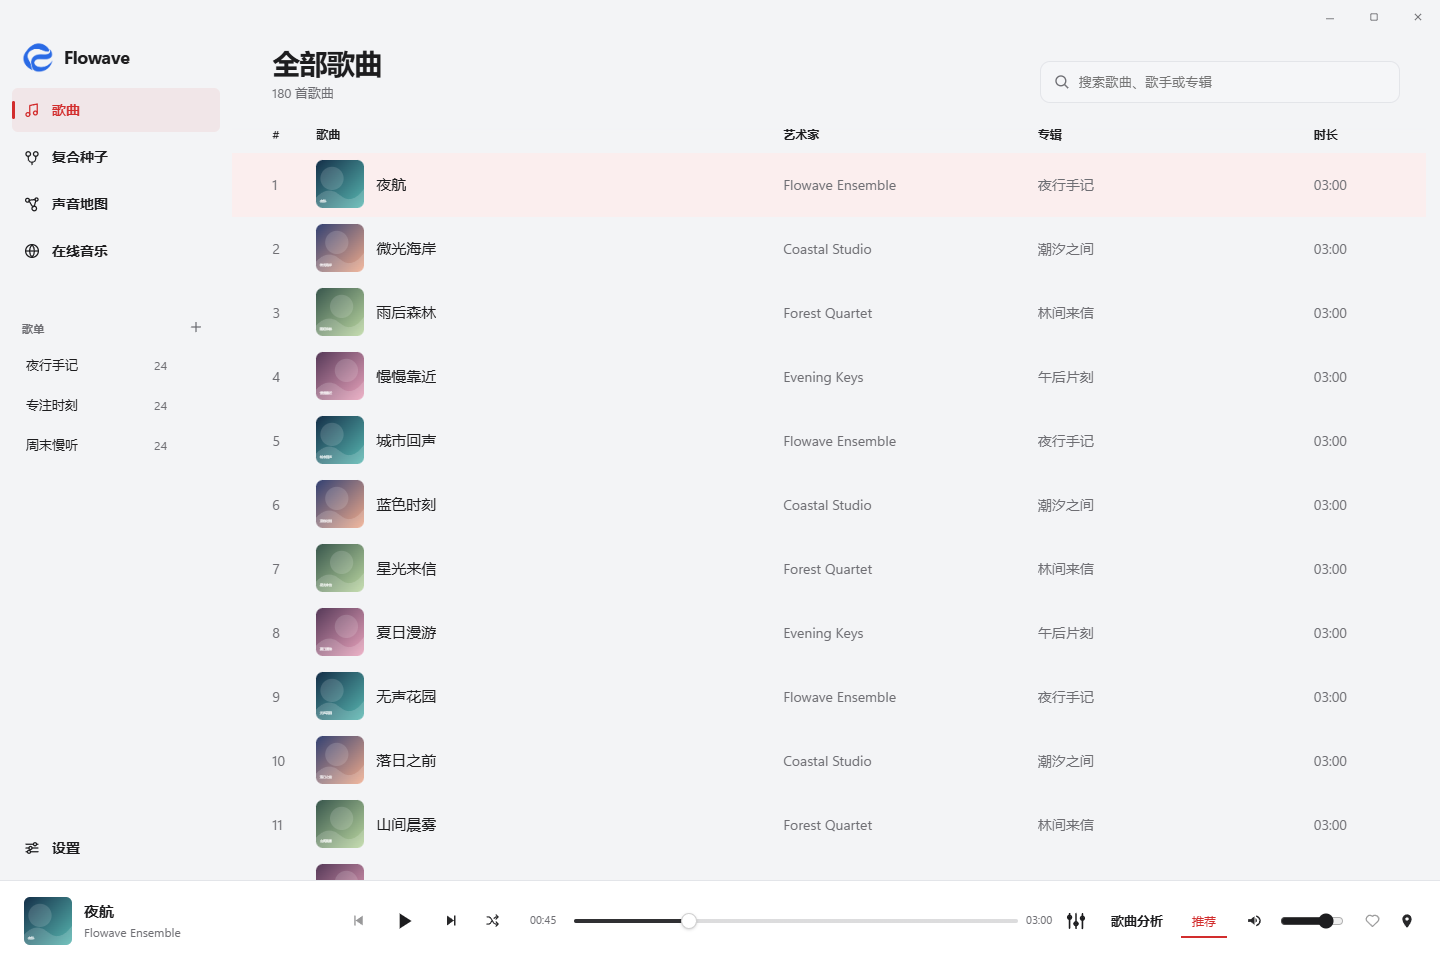
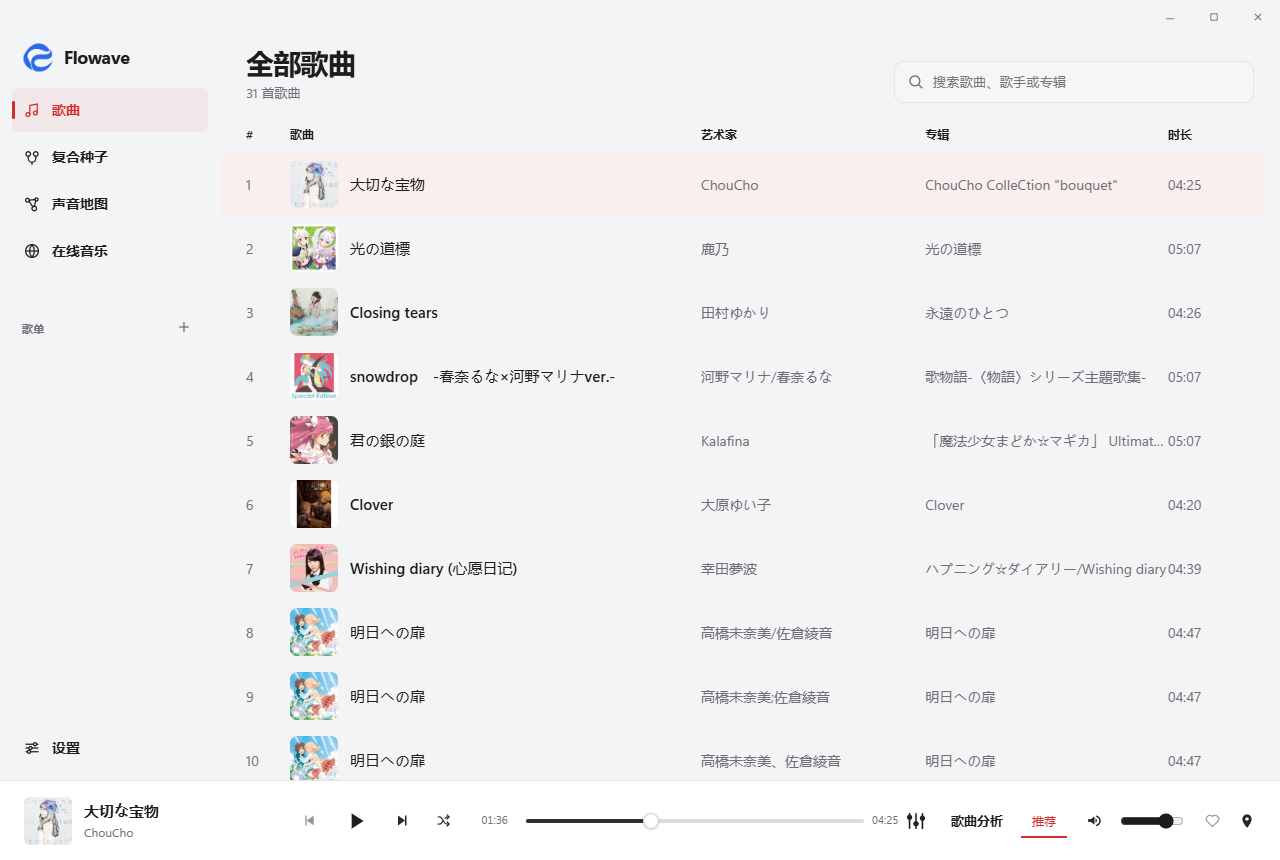
Update README and real-song gallery

diff --git a/README.md b/README.md
@@ -1,97 +1,88 @@
-<p align="center">
-  <img src="electron-lxplayer/renderer/assets/app-icon.png" width="112" alt="Flowave">
-</p>
+<p align="center"><img width="112" src="electron-lxplayer/renderer/assets/app-icon.png" alt="Flowave"></p>
 
-# Flowave
+<h1 align="center">Flowave</h1>
 
-Flowave 是一个 Windows 本地音乐播放器。它可以管理和播放电脑里的音乐，也可以从你选的一首歌出发，在自己的曲库里接着找歌。
+<p align="center">一个注重连续听感的 Windows 音乐播放器</p>
 
-收藏的歌多了，有时反而不知道该听什么。随机播放容易打断刚刚听进去的感觉，自己挑歌又需要不断回到列表。Flowave 想让这个过程省心一些：合适就继续，走偏了就找回，听够了就换个方向。
+## 说明
 
-如果你习惯保留自己的音乐文件，希望多听到一些已经收藏、却很少点开的歌，Flowave 就是围绕这样的日常使用来做的。曲库、歌词和播放是基础，推荐、歌曲分析和伴奏练习可以按需要开启。
+Flowave 用于沉浸式听音乐，注重歌曲之间风格和听感的连续性。软件根据当前播放、听歌反馈和近期记录判断偏好，推荐下一曲。
 
-[使用指南](docs/使用指南.md) · [源码运行与构建](docs/源码运行与构建.md) · [Releases](https://github.com/nadeshikochan/Flowave/releases)
+可以顺着当前方向继续听，也可以使用“找回感觉”纠偏，或用“换个感觉”切换方向。支持本地曲库、歌单、在线搜索、逐字歌词、桌面歌词、均衡器和交叉淡化。
 
-目前提供源码预览，安装包尚未发布。下方图片使用当前界面和演示数据，曲目、封面、歌词、推荐关系与谱例均为虚构示例。
+目前支持 Windows 10/11 x64。
 
-## 从喜欢的一首接着听
+使用方法请查看[使用指南](docs/使用指南.md)，源码运行请查看[源码运行与构建](docs/源码运行与构建.md)。目前提供源码，安装包尚未发布，后续下载请查看 [GitHub Releases](https://github.com/nadeshikochan/Flowave/releases)。
 
-你可以先选一首现在想听的歌，再交给 Flowave 接着找。推荐会比较歌曲本身的声音特征，也会参考已有的歌曲分析和近期播放情况，无需先给整份曲库手工分类。
+### 插件
 
-听的过程中，可以延续当前方向；遇到不合适的歌，用“找回感觉”往刚才的方向靠拢；想换一换，就用“换个感觉”开始下一段。近期播放和重复控制也会参与选择，减少总在几首歌之间来回的情况。
+推荐功能、听歌记录、声音地图、歌曲分轨、和声检测、复合种子等功能计划通过插件安装。
 
-这里关注的是一段连续的聆听：下一首能不能接得上，同时还能不能慢慢听到别的歌。推荐结果会受曲库和个人听感影响，需要相应模型、运行组件及已经完成的曲库索引。
+当前已支持功能启停，独立插件安装尚未完成。推荐与音乐分析需要另外准备模型和运行环境。
 
-## 用几首歌说明想听什么
+- 歌曲推荐：根据声音特征和听歌反馈选择下一曲，兼顾当前方向与近期重复情况。
+- 听歌记录：查看听歌时长、播放次数和歌曲排行。
+- 声音地图：浏览相近歌曲，查看歌曲关系和实际听歌轨迹。
+- 歌曲分轨：调整人声和乐器声部，配合循环、变速和节拍器练习。
+- 和声检测：提供和弦、调性等分析信息，识别结果需要核对。
+- 复合种子：用多首歌曲组合喜欢和排除的方向，生成分组推荐。
 
-有时一首歌还说不清想听的感觉。复合种子可以把几首喜欢的歌放在一起，也可以加入想避开的方向，保存成一个组合。
+### 在线音源
 
-![复合种子：喜欢的方向、排除的方向和分组推荐](docs/images/seeds.png)
+本仓库不包含第三方在线音源脚本，使用在线播放时需自行导入可信来源。仓库中的搜索接口和脚本加载器属于播放器代码。
 
-比如想保留几首歌共有的氛围，又不想接到另一类声音，就可以同时给出这些例子，再浏览推荐结果。以后想听类似的音乐，可以回到这个组合继续用。
+### 本地数据
 
-结果按可衔接的组排列，可以选择从哪一组开始。组与组之间不自动接歌，避免把不同方向硬连成一条播放列表。
+软件无需注册账户，配置、历史和分析结果保存在本机。在线搜索、资料查询和组件下载会访问相应服务。详情请查看[隐私与数据](docs/隐私与数据.md)。
 
-## 在地图里找歌
+## 用户界面
 
-当你只记得一首歌的感觉，却说不出它属于什么风格时，也可以从声音地图开始找。
+### 歌曲
 
-![声音地图：浏览曲库里的歌曲群落](docs/images/map.png)
+多目录曲库、搜索、歌单和播放队列。以下以 ChouCho《大切な宝物》为例。
 
-地图把模型中相近的歌曲放到可以浏览的空间里。先看全库，再进入某个群落，或展开一首歌附近的音乐；可以搜索、缩放、平移和旋转，也可以按需查看歌曲关系与相似度矩阵。
+<p><img width="100%" src="docs/images/library.png" alt="歌曲页面：ChouCho 大切な宝物"></p>
 
-听歌轨迹则保留实际经过的歌曲和换向经历，方便回看刚才从哪里听到了哪里。地图的位置是模型关系的投影，适合帮助探索，不能直接当作严格的风格分类。
+### 歌词
 
-## 管理自己的音乐收藏
+支持逐字歌词、多语言歌词和桌面歌词，可以调整字号、配色与背景。
 
-![本地曲库与播放界面](docs/images/library.png)
+<p><img width="100%" src="docs/images/lyrics.png" alt="歌词页面：ChouCho 大切な宝物"></p>
 
-Flowave 支持多个音乐目录，可以按歌曲、歌手或专辑搜索，也可以浏览文件夹、建立歌单和安排播放队列。普通播放按当前列表顺序进行，想随机听或循环播放时也可以切换。
+### 声音地图
 
-歌曲资料、封面和歌词可以按需查找补全，音频标签也可以编辑。音乐分散在不同文件夹时，不必为了使用播放器先搬到同一个位置；从曲库移除目录也不会删除音频文件。
+查看这首歌附近的音乐，也可以切换全库视图、歌曲比较和听歌轨迹。
 
-## 看歌词，安心听歌
+<p><img width="100%" src="docs/images/map.png" alt="大切な宝物附近的歌曲关系"></p>
 
-![沉浸歌词界面](docs/images/lyrics.png)
+这三张图使用当前界面、本地已有歌曲资料及保存的音频向量关系渲染，仅用于界面展示，未附带音乐文件。
 
-歌词页把封面、背景和文字放在同一个画面里。当前歌词突出显示，前后歌词逐渐模糊；有逐字时间信息时，可以跟随音乐高亮，也支持多语言歌词。
+### 在线搜索
 
-想读前后的内容时可以手动浏览，随后恢复跟随。字号、配色和背景效果都可以调整。平时在别的窗口工作，也可以打开桌面歌词，不必一直把播放器放在前面。
+可以搜索歌曲和歌单。歌曲搜索沿用原有界面截图；歌单搜索图使用演示数据，不表示仓库内置音源。
 
-![播放与声音设置](docs/images/sound.png)
+<p><img width="100%" src="docs/images/online.png" alt="在线歌曲搜索，原有界面截图"></p>
 
-日常播放还提供均衡器、交叉淡化、媒体键和全局快捷键。交叉淡化可以调整自然切歌时的重叠时长；蓝牙耳机校准用于调整歌词与演奏画面的延迟，并按输出设备保存补偿。校准包含人的跟拍反应，实际同步效果仍需结合设备确认。
+<p><img width="100%" src="docs/images/playlists.png" alt="在线歌单搜索，演示数据"></p>
 
-## 跟着歌曲练习
+### 复合种子
 
-听到想跟唱或练习的一段，可以进入演奏页，准备分轨伴奏，再调整需要保留的人声和乐器声部。
+加入喜欢和排除的歌曲，保存组合并查看推荐。推荐分组播放，组间不自动接歌。以下沿用原有演示图。
 
-![演奏页：合成谱例与分段练习](docs/images/practice.png)
+<p><img width="100%" src="docs/images/seeds.png" alt="复合种子页面"></p>
 
-练习时可以选一段反复播放、放慢速度，或使用逐步提速和节拍器。谱面会显示播放位置，支持跟随、分页、全屏和显示设置。歌曲分析提供的段落信息，也方便回到前奏、主歌或副歌继续练。
+### 设置
 
-分轨、旋律识别和自动谱面需要额外模型与运行环境，效果受音源和硬件影响。谱面目前适合作为辅助，需要人工核对，还不能保证达到直接演奏的精度。
+播放、音效、外观、歌词、曲库和快捷键等设置。
 
-## 只开启需要的功能
+<p><img width="100%" src="docs/images/sound.png" alt="设置页面"></p>
 
-![功能选装设置](docs/images/features.png)
+## 使用反馈
 
-只想播放音乐时，可以保留基础功能。想继续使用推荐、歌曲分析、演奏或听歌记录，再分别开启；选择在下次启动时生效。
+遇到问题可提交 [Issue](https://github.com/nadeshikochan/Flowave/issues)，说明版本和复现步骤。上传日志前请删除个人路径、凭据等信息。安全问题请查看[安全政策](SECURITY.md)。
 
-关闭功能会保留已有歌曲和处理结果，不会自动删除模型或用户数据。听歌记录开启时，可以查看长期时长、次数和排行；关闭后停止累计这些统计。基础播放、搜索、歌单、歌词和音效始终保留。
+## 项目许可
 
-目前尚未提供所有可选模块的独立下载安装包，部分模型功能仍需自行准备环境。
+项目原始代码和资源保留全部权利，具体见 [LICENSE](LICENSE)。源码公开供查阅，修改及再分发需另行取得授权。
 
-## 使用与下载
-
-支持 Windows 10/11 x64。当前可以按照[源码运行与构建](docs/源码运行与构建.md)准备基础播放环境；安装包和便携版以 [Releases](https://github.com/nadeshikochan/Flowave/releases) 实际发布的文件为准。
-
-应用无需注册账户，配置、历史和分析结果保存在本机。在线资料查询、模型下载以及用户导入的音源脚本会访问相应服务，详见[隐私与数据](docs/隐私与数据.md)。仓库不提供音乐内容或第三方在线音源脚本。
-
-遇到问题可以提交 [Issue](https://github.com/nadeshikochan/Flowave/issues)，附上版本、复现步骤和脱敏日志。安全问题请参阅[安全政策](SECURITY.md)。
-
-## 许可
-
-源码公开供查阅，项目原始代码和资源保留全部权利，具体授权见 [LICENSE](LICENSE)。公开源码不代表授予修改或再分发许可。
-
-第三方组件遵循各自许可。MERT-v1-330M 使用 CC BY-NC 4.0，限制商业用途，模型不随本仓库分发。更多说明见 [THIRD_PARTY_NOTICES.txt](release-template/THIRD_PARTY_NOTICES.txt)。
+第三方组件遵循各自许可。MERT-v1-330M 使用 CC BY-NC 4.0，限制商业用途，模型不随仓库分发。详情见 [THIRD_PARTY_NOTICES.txt](release-template/THIRD_PARTY_NOTICES.txt)。
